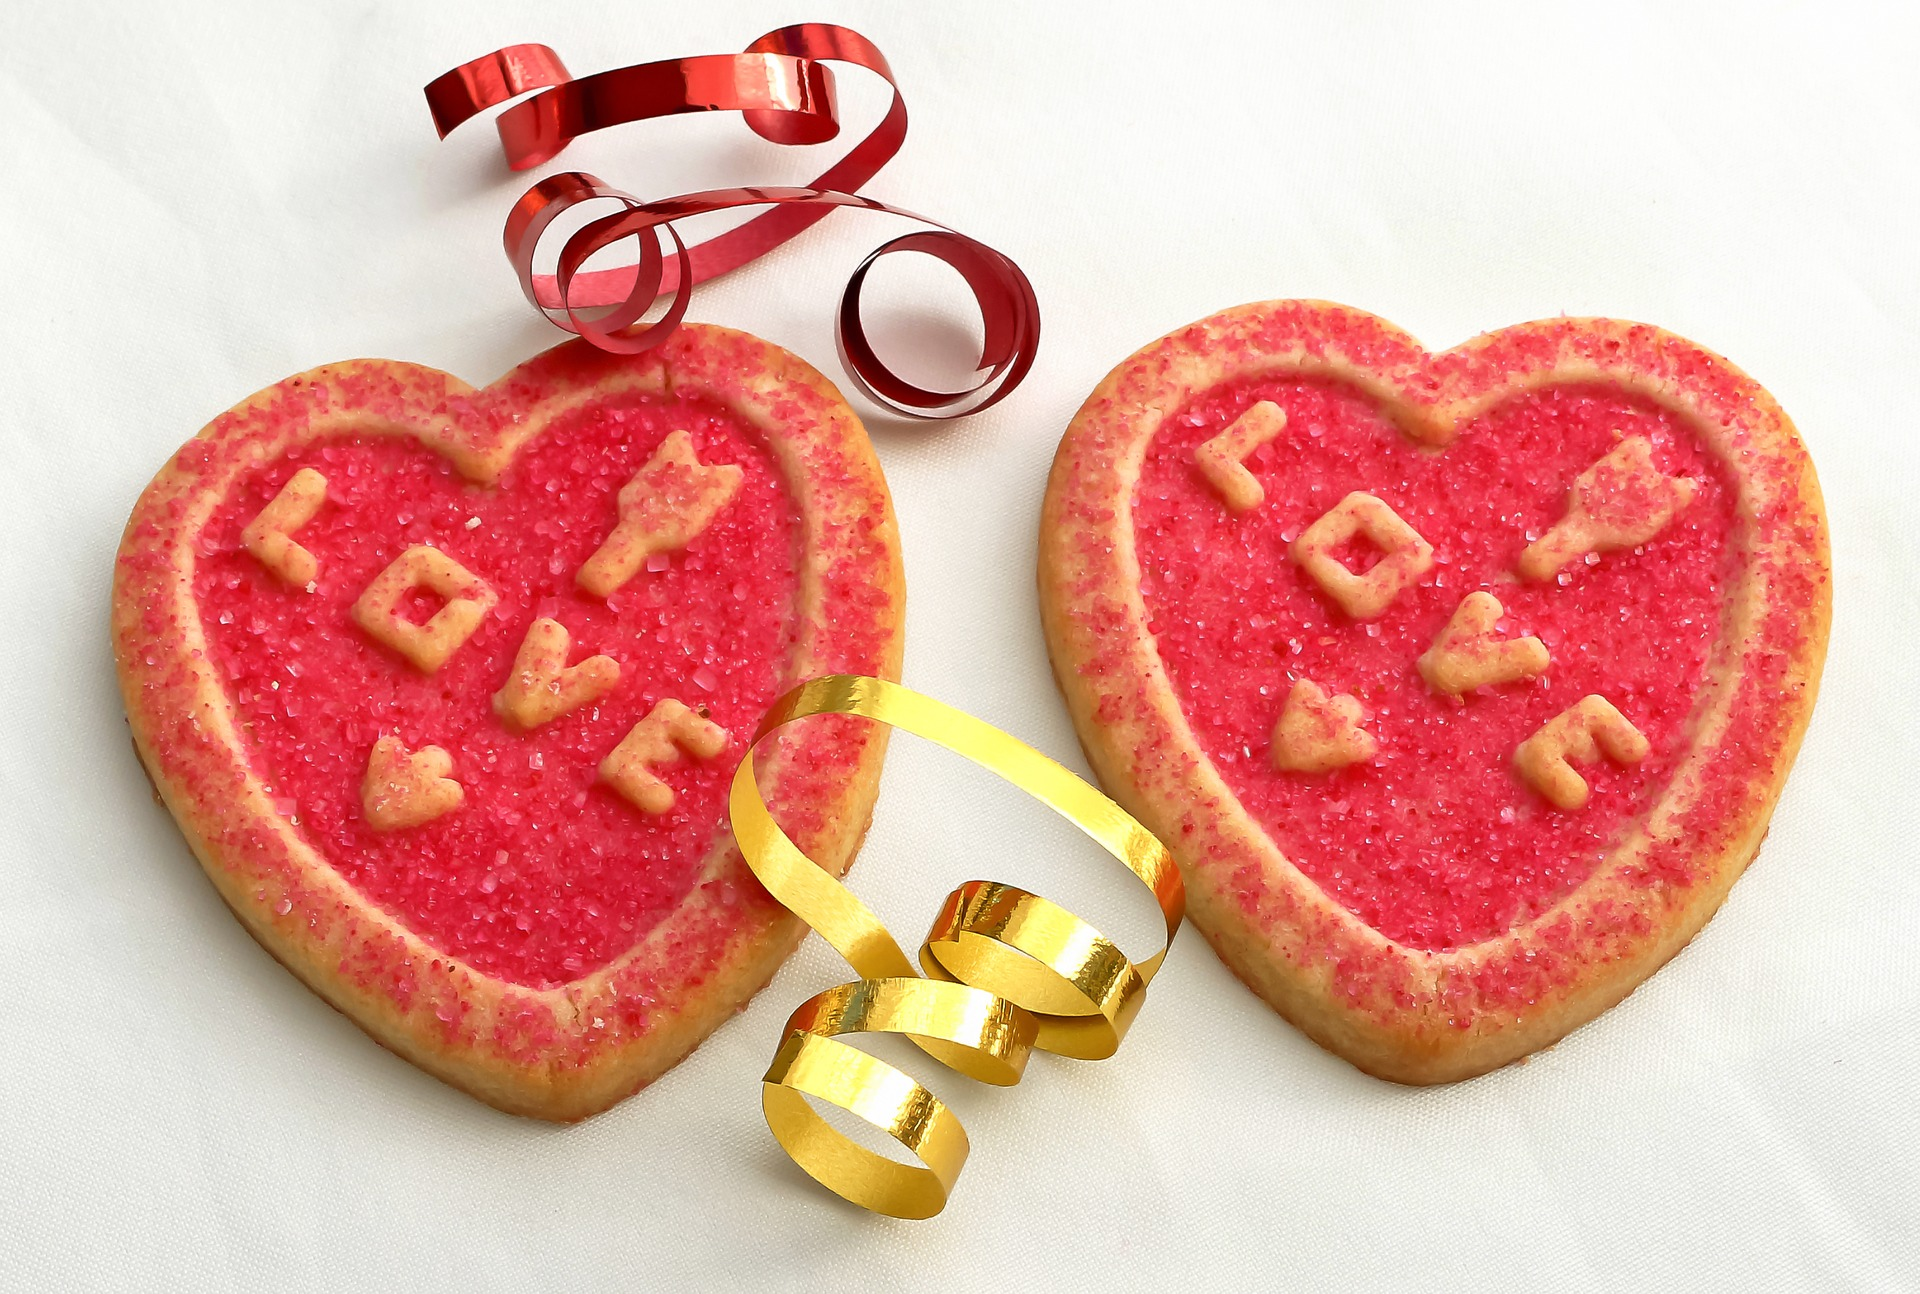
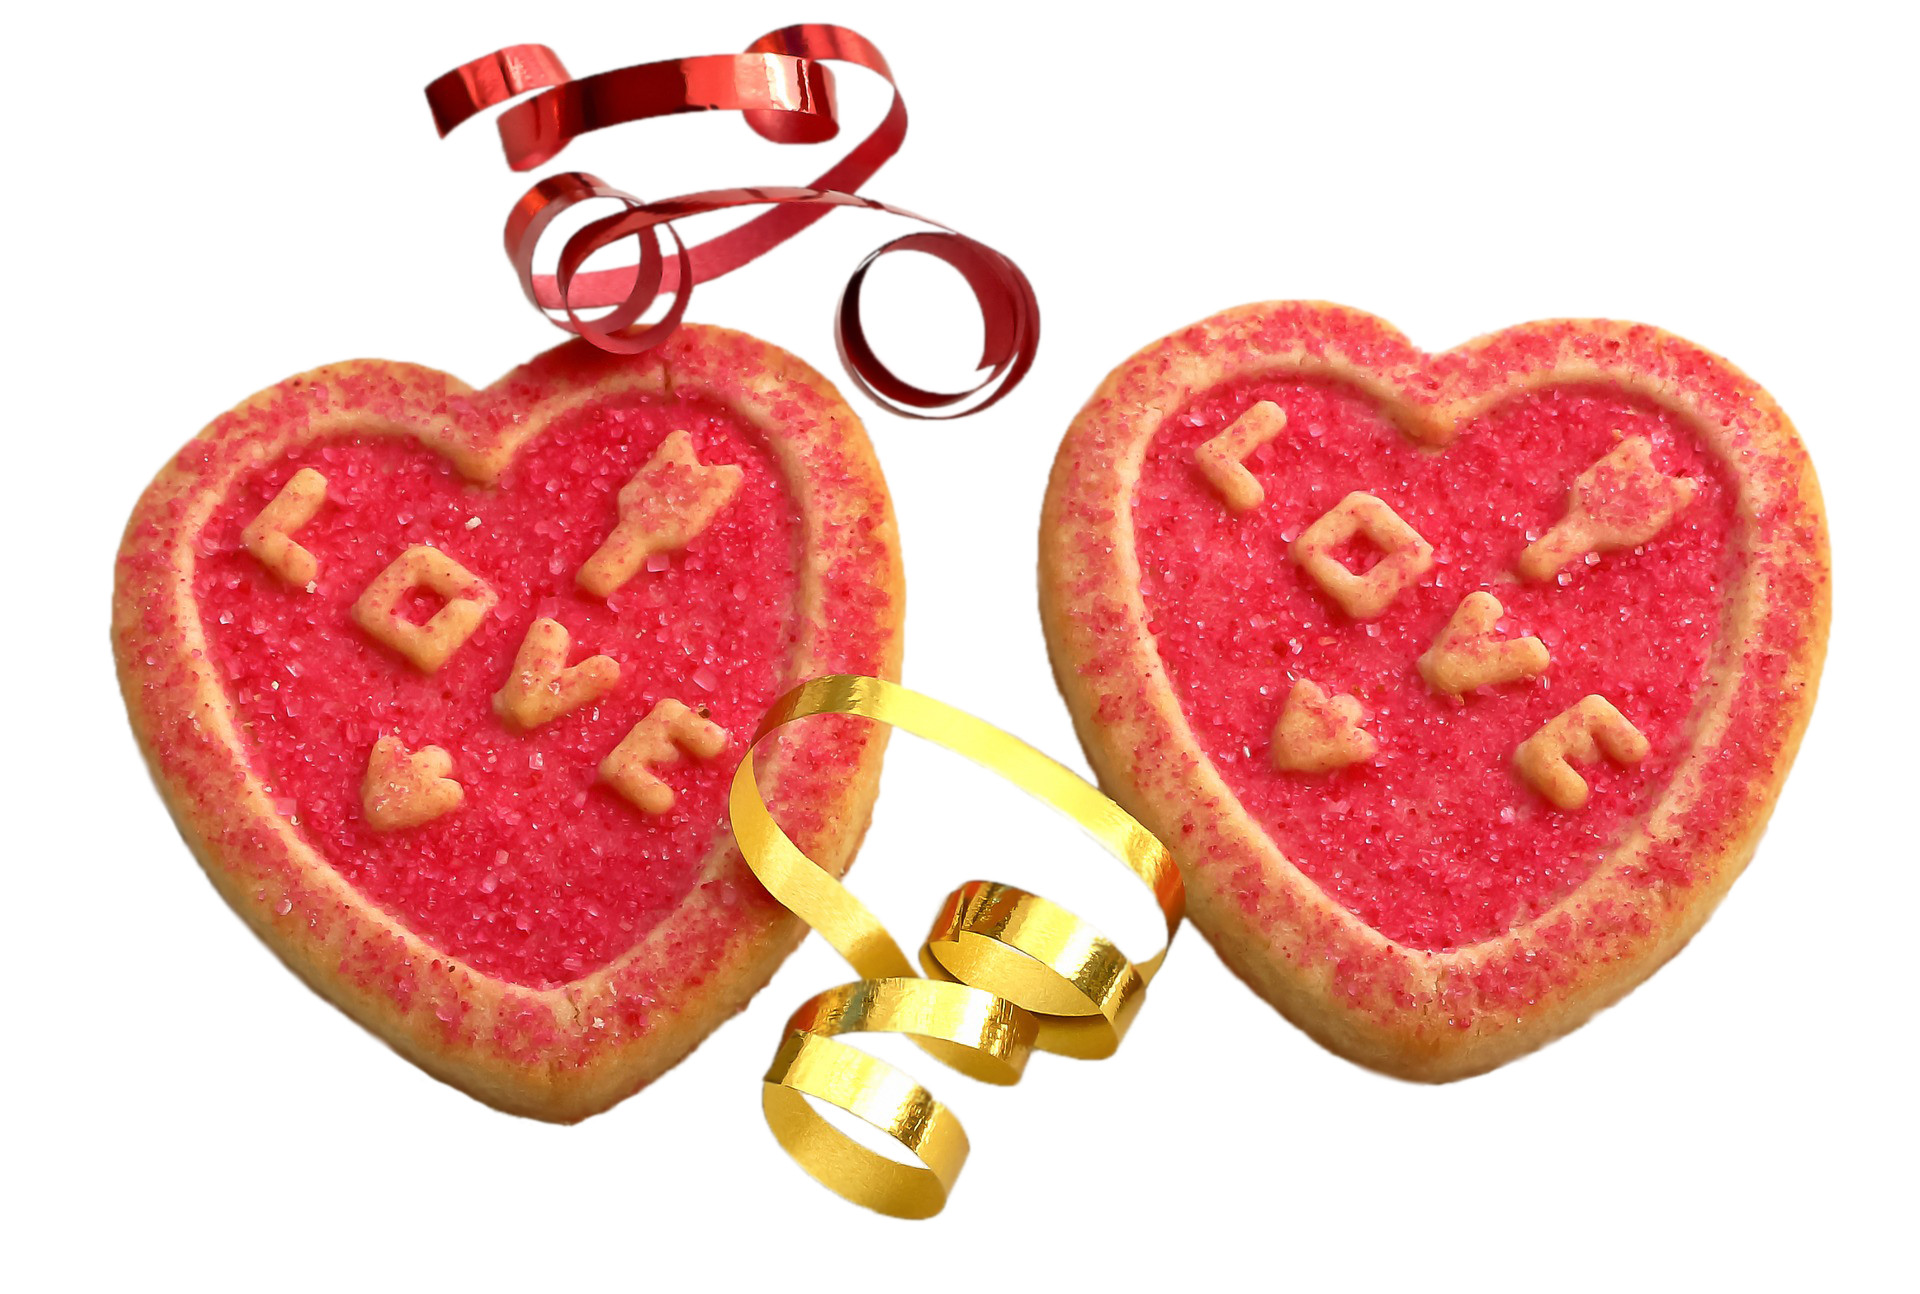
change png file to jpg to have smaller assets

Changed region(s): [[0.0, 0.0618, 1.0, 1.0], [0.7188, 0.2473, 0.75, 0.2782], [0.4375, 0.8655, 0.4688, 0.8964]]

diff --git a/index.html b/index.html
@@ -131,7 +131,7 @@
 		    <p class="lead">Vous avez la possibilité de donner aux créateurs équitablement ou selon votre choix.<br>Vos dons sont directs, nous ne prenons aucune commission.</p>
                 </div>
                 <div class="col-lg-5 col-sm-pull-6  col-sm-6">
-                    <img class="img-responsive" src="img/cookie.png" alt="">
+                    <img class="img-responsive" src="img/cookie.jpg" alt="">
                 </div>
             </div>
 
